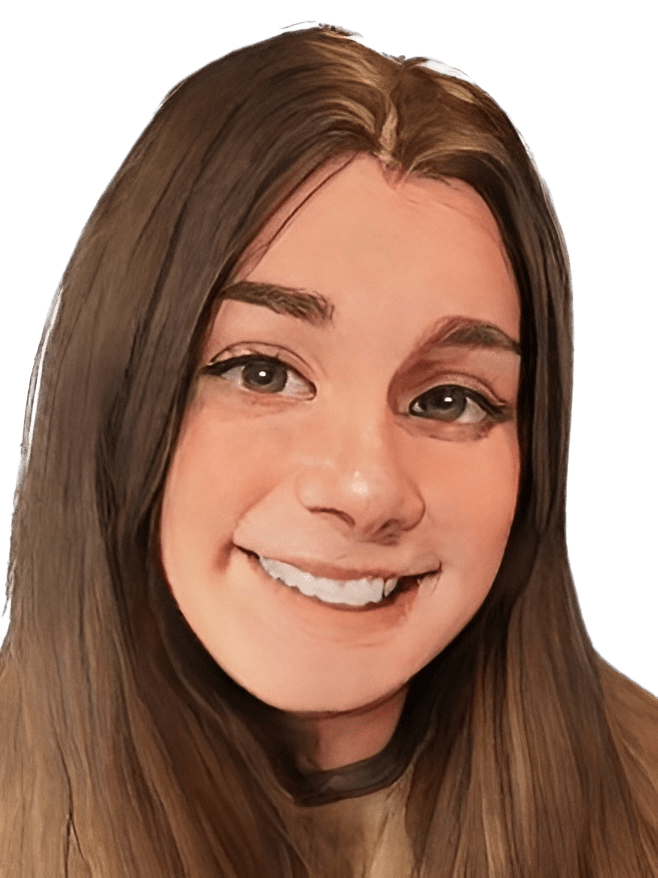
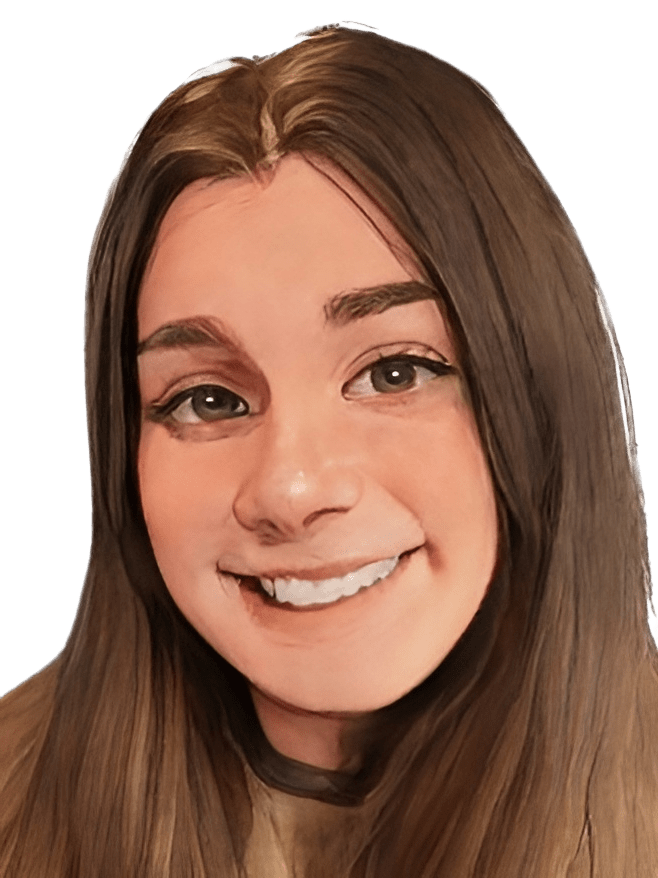
Adjusted UI responsiveness and fixed header projects link.

diff --git a/src/routes/+page.svelte b/src/routes/+page.svelte
@@ -46,16 +46,18 @@
 	.profile {
 		display: block;
 		height: min(40cqi, var(--sm-container));
-		border-radius: 15px 255px 15px 225px/225px 15px 255px;
+		border-radius: 225px 15px 255px/15px 255px 15px 225px;
 		border: 1px dashed var(--neutral-200-700);
 		background-image: linear-gradient(123deg, var(--neutral-200-700) -300%, transparent);
 		object-fit: cover;
-		margin-right: clamp(var(--sm-size), var(--responsive-size), var(--xl-size));
 		margin-bottom: min(var(--responsive-size), var(--sm-size));
-		float: left;
+		margin-left: clamp(var(--sm-size), var(--responsive-size), var(--xl-size));
+		float: right;
 		@media (max-width: 240px) {
+			border-radius: var(--3xs-size);
 			width: 100%;
 			height: auto;
+			margin-left: 0;
 			float: none;
 		}
 	}
@@ -65,18 +67,18 @@
 	}
 
 	h1 {
-		font-size: var(--8xl-font);
+		font-size: var(--7xl-font);
 		font-weight: var(--heavy-font);
 		margin-top: var(--3xs-size);
 	}
 
 	h2 {
-		font-size: var(--3xl-font);
+		font-size: var(--2xl-font);
 		font-weight: var(--thin-font);
 	}
 
 	p {
-		font-size: var(--xl-font);
+		font-size: var(--lg-font);
 		margin: var(--sm-size) 0 var(--3xs-size);
 	}
 
@@ -84,13 +86,13 @@
 		display: flex;
 		flex-flow: row wrap;
 		align-items: center;
-		font-size: var(--4xl-font);
+		font-size: var(--3xl-font);
 		gap: var(--sm-size);
 		margin: var(--md-size) 0 var(--sm-size);
 	}
 
 	a {
 		font-family: var(--accent-font);
-		font-size: var(--2xl-font);
+		font-size: var(--xl-font);
 	}
 </style>

diff --git a/src/lib/Navbar.svelte b/src/lib/Navbar.svelte
@@ -11,7 +11,7 @@
 			<a href="/">Hey, Jes!</a>
 		</h2>
 		<nav id="nav">
-			<a href="#projects">Projects</a>
+			<a href="/#projects">Projects</a>
 			<a href="https://github.com/joshuasand0val" target="_blank">Github</a>
 			<a href="https://linkedin.com/in/heyjes/" target="_blank">Linkedin</a>
 		</nav>
